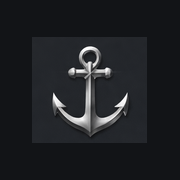
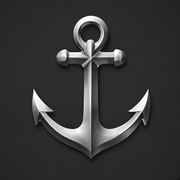
Point the waitlist at the Anchor Supabase project.
Also swap in a sharper high-res logo so the hero mark no longer upscales a tiny PNG.

diff --git a/styles.css b/styles.css
@@ -206,16 +206,16 @@ a:hover {
 
 .hero-mark {
   position: absolute;
-  right: -8%;
+  right: -6%;
   top: 50%;
-  width: min(78vw, 720px);
+  width: min(68vw, 640px);
   height: auto;
-  transform: translateY(-52%) scale(1.02);
-  opacity: 0.55;
-  filter: saturate(0.95) contrast(1.05);
+  transform: translateY(-52%);
+  opacity: 0.72;
   animation: mark-drift 22s ease-in-out infinite alternate;
   pointer-events: none;
   user-select: none;
+  will-change: transform;
 }
 
 .hero-veil {
@@ -427,10 +427,10 @@ a:hover {
 
 @keyframes mark-drift {
   from {
-    transform: translateY(-52%) scale(1.02) translate3d(0, 0, 0);
+    transform: translateY(-52%) translate3d(0, 0, 0);
   }
   to {
-    transform: translateY(-48%) scale(1.06) translate3d(-2%, 1.5%, 0);
+    transform: translateY(-48%) translate3d(-1.5%, 1%, 0);
   }
 }
 
@@ -740,11 +740,11 @@ a:hover {
   }
 
   .hero-mark {
-    right: -18%;
+    right: -14%;
     top: 28%;
-    width: min(95vw, 520px);
-    transform: translateY(-30%) scale(1.05);
-    opacity: 0.42;
+    width: min(88vw, 480px);
+    transform: translateY(-30%);
+    opacity: 0.55;
     animation: none;
   }
 
@@ -805,7 +805,7 @@ a:hover {
   }
 
   .hero-mark {
-    transform: translateY(-52%) scale(1.02);
+    transform: translateY(-52%);
   }
 
   .logo:hover .logo-mark {

diff --git a/index.html b/index.html
@@ -39,10 +39,11 @@
         <div class="hero-plane" aria-hidden="true">
           <img
             class="hero-mark"
-            src="assets/logo.png"
+            src="assets/logo-hero.png"
             alt=""
-            width="900"
-            height="900"
+            width="1024"
+            height="1024"
+            decoding="async"
           />
         </div>
         <div class="hero-veil" aria-hidden="true"></div>

diff --git a/script.js b/script.js
@@ -1,7 +1,7 @@
 (function () {
-  const SUPABASE_URL = "https://wboaffcwzkhkazsudjbi.supabase.co";
+  const SUPABASE_URL = "https://dduisxvcqowkwygqntmo.supabase.co";
   const SUPABASE_PUBLISHABLE_KEY =
-    "sb_publishable_sX8-mH50H9IpimkF_vAJvQ_LKQz8bs7";
+    "sb_publishable_RWXkY_L_xUOm_BNQlAwg0Q_Q6dpgkA8";
 
   const supabase = window.supabase.createClient(
     SUPABASE_URL,
